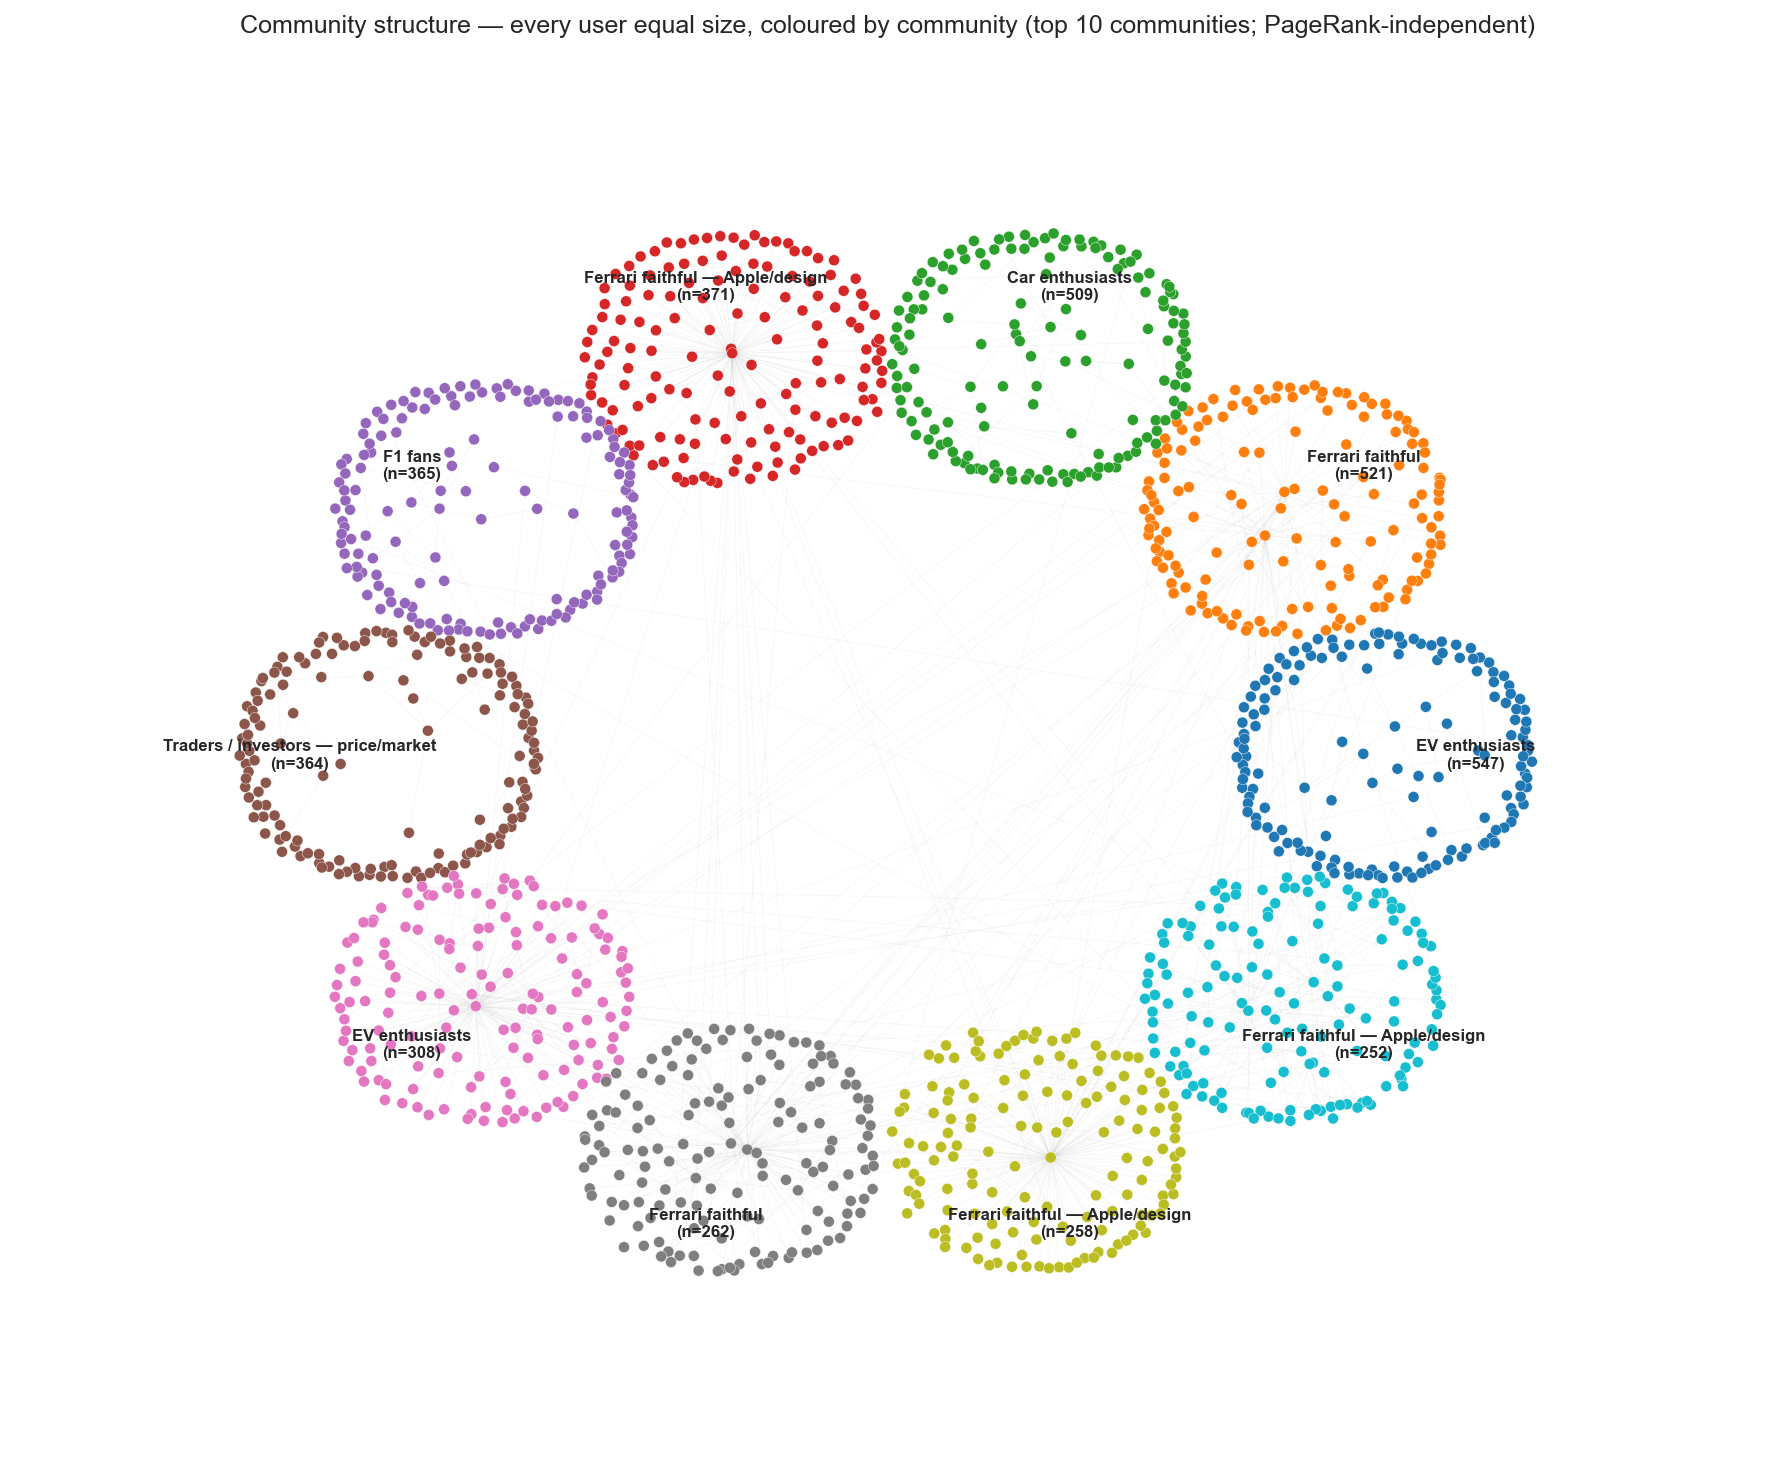
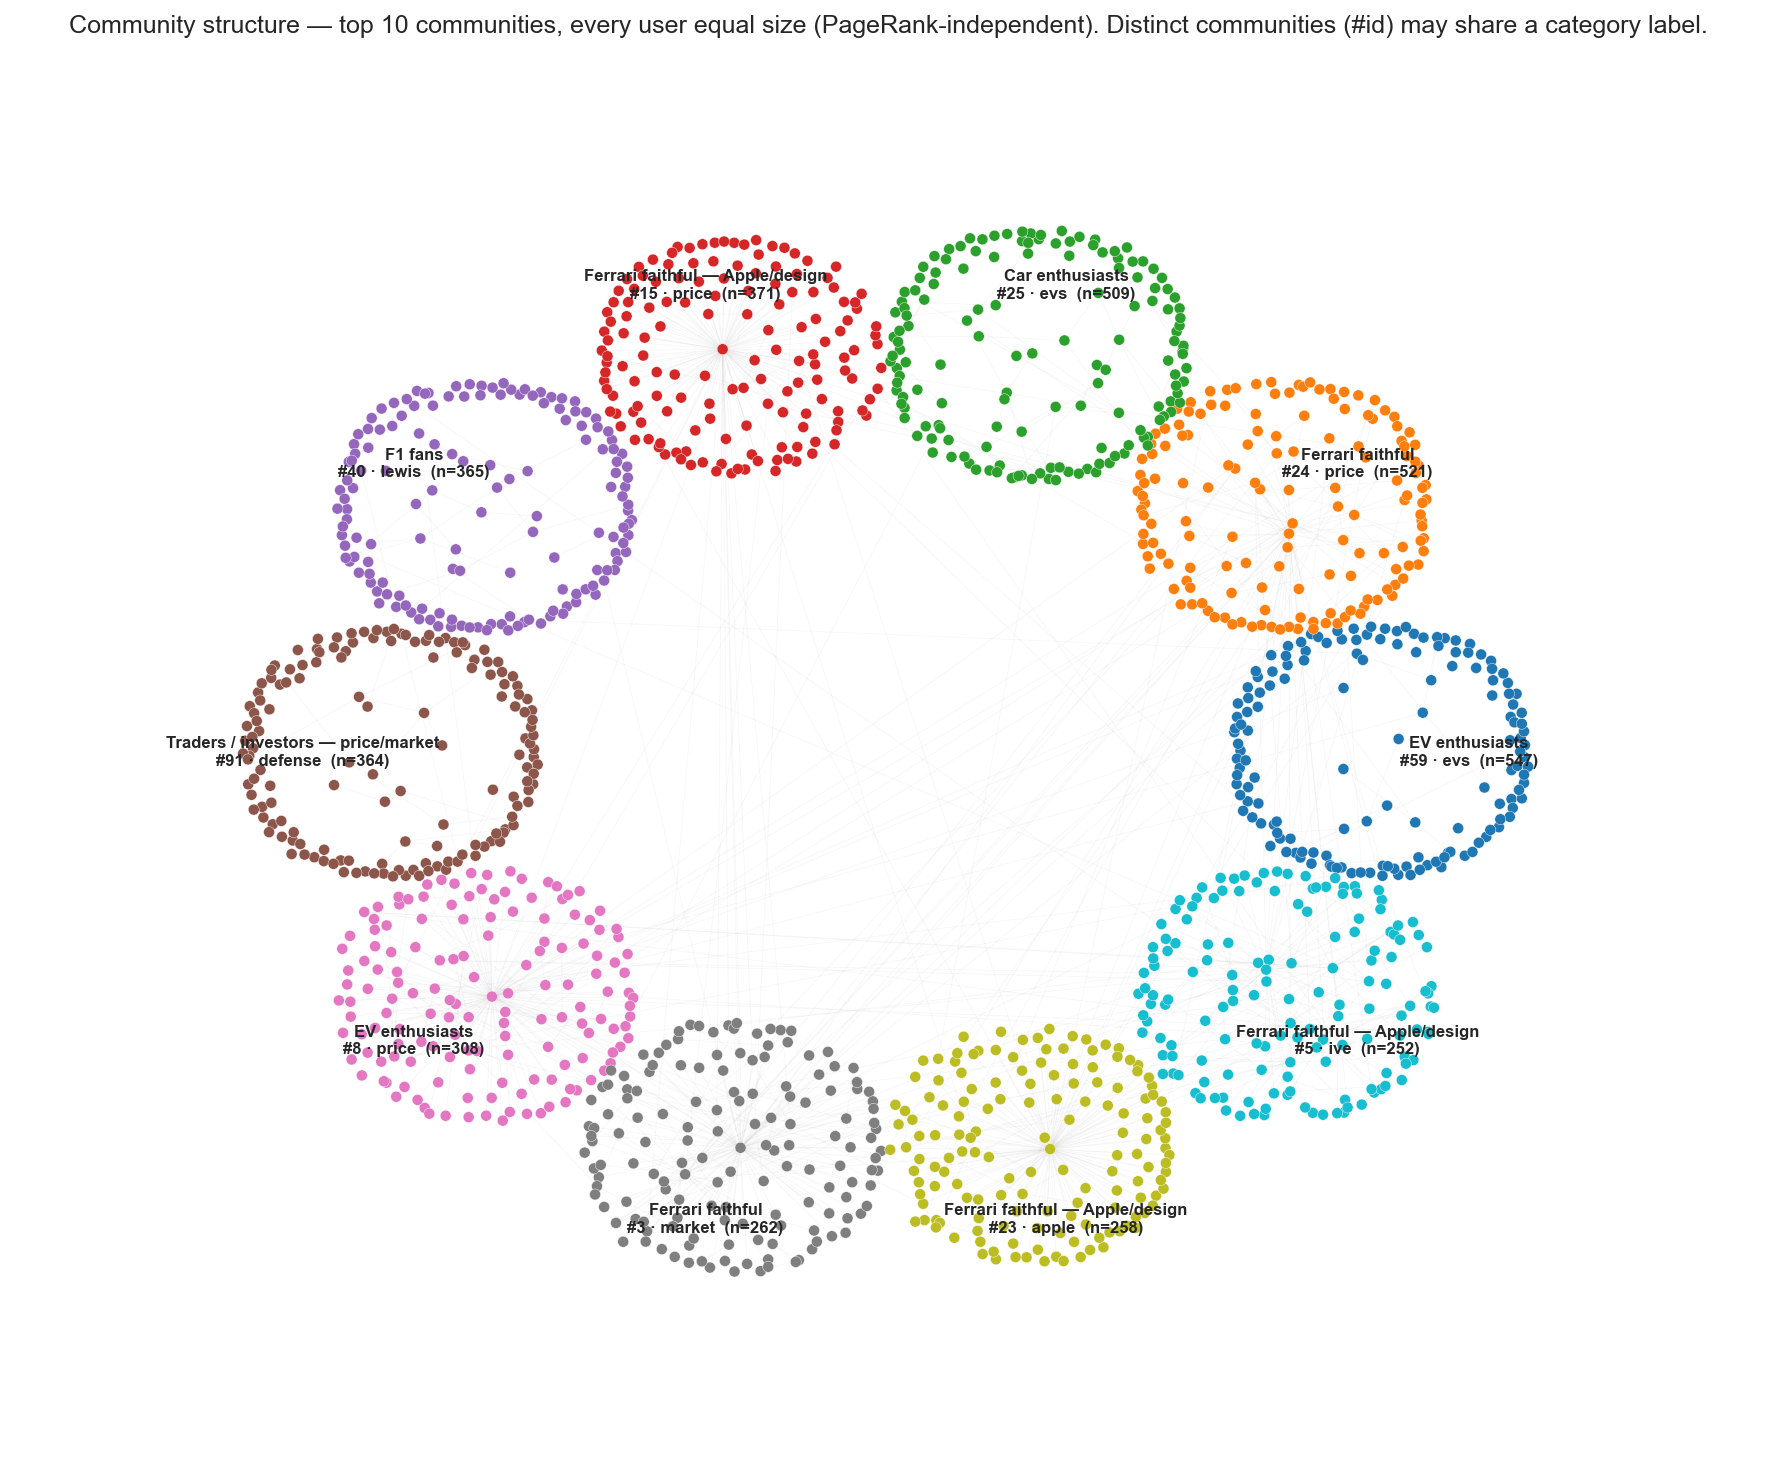
Disambiguate community-structure plot labels
Several distinct Louvain communities legitimately share a category label (the large
r/Ferrari discourse splits into multiple communities). The map now tags each cluster
with its community #id and a distinctive (non-generic) keyword — e.g. "EV enthusiasts
#59 · evs" vs "#8 · price"; "Ferrari faithful — Apple/design #23 · apple" vs "#5 · ive"
— so same-label communities are clearly separate. Title notes the same.

Changed region(s): [[0.0929, 0.1559, 0.8671, 0.8732], [0.031, 0.0, 0.96, 0.0312], [0.2787, 0.4678, 0.3097, 0.5614]]

diff --git a/src/viz.py b/src/viz.py
@@ -230,10 +230,25 @@ def community_structure(top_communities: int = 10, max_per_community: int = 150)
     if G.number_of_nodes() == 0:
         return
     comm = load_csv("nodes_communities.csv").set_index("node")["community_louvain"].to_dict()
-    try:  # human labels per community, if community_sentiment has run
-        labels = load_csv("community_sentiment.csv").set_index("community")["label"].to_dict()
+    labels, keywords = {}, {}
+    try:  # human labels + distinctive keywords per community, if available
+        cs = load_csv("community_sentiment.csv").set_index("community")
+        labels = cs["label"].to_dict()
+        keywords = cs["top_keywords"].to_dict()
     except Exception:  # noqa: BLE001
-        labels = {}
+        pass
+
+    # Several distinct communities can share a category label (e.g. r/Ferrari splits
+    # into many communities). Pick a distinctive (non-generic) keyword to tell them apart.
+    _generic = {"interior", "buy", "new", "brand", "looks", "look", "design", "way",
+                "make", "want", "actually", "maybe", "good", "really", "people"}
+
+    def _hint(c):
+        for w in str(keywords.get(c, "")).split(","):
+            w = w.strip()
+            if w and w not in _generic:
+                return w
+        return ""
 
     from collections import Counter
     sizes = Counter(comm.get(n) for n in G.nodes if comm.get(n) is not None)
@@ -266,11 +281,13 @@ def community_structure(top_communities: int = 10, max_per_community: int = 150)
     for i, c in enumerate(kept):
         ang = 2 * math.pi * i / len(kept)
         lab = labels.get(c, f"community {c}")
+        hint = _hint(c)
+        sub = f"#{c} · {hint}" if hint else f"#{c}"
         ax.text(1.18 * R * math.cos(ang), 1.18 * R * math.sin(ang),
-                f"{lab}\n(n={sizes[c]})", ha="center", va="center",
+                f"{lab}\n{sub}  (n={sizes[c]})", ha="center", va="center",
                 fontsize=8, fontweight="bold")
-    ax.set_title(f"Community structure — every user equal size, coloured by community "
-                 f"(top {len(kept)} communities; PageRank-independent)")
+    ax.set_title(f"Community structure — top {len(kept)} communities, every user equal size "
+                 f"(PageRank-independent). Distinct communities (#id) may share a category label.")
     ax.margins(0.12)
     ax.axis("off")
     _save(fig, "community_structure.png")